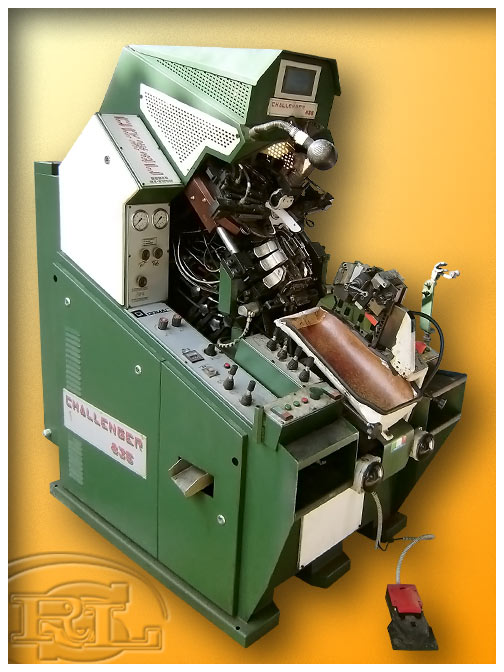
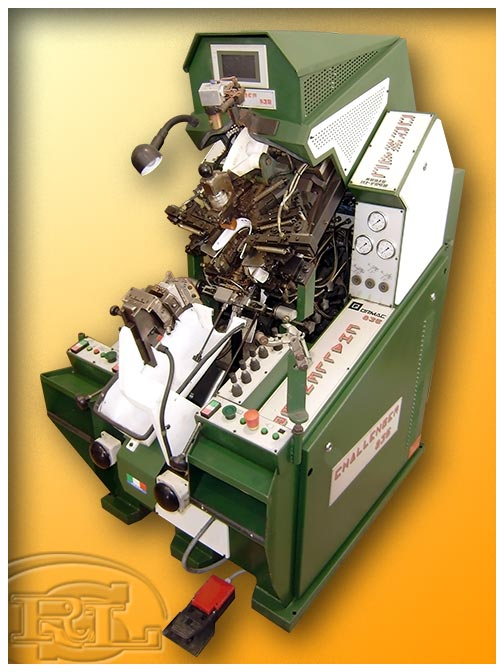
Updated: 'ORMAC CHALLENGER 835' (restored)

diff --git a/maquinas/centrar/maqUs_centrar-y-montar-puntas_ORMAC_CHALLENGER_835.htm b/maquinas/centrar/maqUs_centrar-y-montar-puntas_ORMAC_CHALLENGER_835.htm
@@ -4,7 +4,7 @@
 <head>
 <meta http-equiv="Content-Type" content="text/html; charset=utf-8" />
 <title>RaLoS, Maquinaria USADA: Máquina de Centrar y Montar Puntas ORMAC 'CHALLENGER 835' Serie Hi-Tech de Ocasión </title>
-<meta name="keywords" content="centrar ormac, montar ormac, challenger 835, maquina centrar ormac, montar puntas, centrar puntas, armar puntas, montar punteras, centrar punteras, armar punteras, maquina de centar, maquina de montar, centrar y montar, centrar calzado, montar calzado, centrar zapato, montar zapato, ormac ocasion, ormac usada, ormac segunda mano, maquinaria usada calzado, maquinas usadas calzado, maquinaria usada zapatos, maquinas usadas zapatos, segunda mano, ocasion, usadas, ralos, Elda, Alicante" />
+<meta name="keywords" content="ormac, centrar ormac, montar ormac, ormac challenger, ormac 835, challenger 835, maquina ormac, montar puntas, centrar puntas, armar puntas, montar punteras, centrar punteras, armar punteras, maquina centar, maquina montar, centrar y montar, centrar calzado, montar calzado, centrar zapato, montar zapato, ormac ocasion, ormac usada, ormac segunda mano, maquinaria usada calzado, maquinas usadas calzado, maquinaria usada zapatos, maquinas usadas zapatos, segunda mano, ocasion, usadas, ralos, Elda, Alicante" />
 <meta name="description" content="RaLoS MAQUINARIA, dispone de una máquina de centrar y montar puntas ORMAC 'CHALLENGER 835' (Serie Hi-tech) de OCASIÓN, en perfectas condiciones de funcionamiento y lista para tabajar." />
 <meta name="creation_Date" content="21/07/2011" />
 <meta name="geography" content="Fundadores de la Industria del Calzado, 4 (Bajos) - Elda (Alicante) 03600 SPAIN" />
@@ -105,17 +105,26 @@ counter++;
         
         <li id="n002">
         	<div class="liContainer"><a href="#n003" target="_self" title="Haz click aquí para ir a la siguiente imagen.">
-            <img class="outerImg" src="../../images/_mac_hOuterFrame_mTn.png" alt=""/>
-            <img class="hInnerImg" src="maqUs_centrar-y-montar-puntas_ORMAC_CHALLENGER_835_2h-v.jpg" alt="Máquina de Centrar/Montar Puntas ORMAC 'CHALLENGER 835' (Serie Hi-Tech) 2"/>
-            <img class="spanPosFix" src="../../images/_mac_hOuterFrameFix_mTn.gif" alt=""/>
+            <img class="outerImg" src="../../images/_mac_vOuterFrame_mTn.png" alt=""/>
+            <img class="vInnerImg" src="maqUs_centrar-y-montar-puntas_ORMAC_CHALLENGER_835_2h-v.jpg" alt="Máquina de Centrar/Montar Puntas ORMAC 'CHALLENGER 835' (Serie Hi-Tech) 2"/>
+            <img class="spanPosFix" src="../../images/_mac_vOuterFrameFix_mTn.gif" alt=""/>
+          	<span></span></a>
+          </div>
+        </li>
+
+        <li id="n003">
+        	<div class="liContainer"><a href="#n004" target="_self" title="Haz click aquí para ir a la siguiente imagen.">
+            <img class="outerImg" src="../../images/_mac_vOuterFrame_mTn.png" alt=""/>
+            <img class="vInnerImg" src="maqUs_centrar-y-montar-puntas_ORMAC_CHALLENGER_835_3h-v.jpg" alt="Máquina de Centrar/Montar Puntas ORMAC 'CHALLENGER 835' (Serie Hi-Tech) 2"/>
+            <img class="spanPosFix" src="../../images/_mac_vOuterFrameFix_mTn.gif" alt=""/>
           	<span></span></a>
           </div>
         </li>
         
-        <li id="n003">
+        <li id="n004">
         	<div class="liContainer"><a href="#productDescription" target="_self" title="Haz clic aquí para ir a la información de la máquina.">
             <img class="outerImg" src="../../images/_mac_hOuterFrame_mTn.png" alt=""/>
-            <img class="hInnerImg" src="maqUs_centrar-y-montar-puntas_ORMAC_CHALLENGER_835_3h-v.jpg" alt="Máquina de Centrar/Montar Puntas ORMAC 'CHALLENGER 835' (Serie Hi-Tech) 3"/>
+            <img class="hInnerImg" src="maqUs_centrar-y-montar-puntas_ORMAC_CHALLENGER_835_4h-h.jpg" alt="Máquina de Centrar/Montar Puntas ORMAC 'CHALLENGER 835' (Serie Hi-Tech) 3"/>
             <img class="spanPosFix" src="../../images/_mac_hOuterFrameFix_mTn.gif" alt=""/>
           	<span></span></a>
           </div>
@@ -131,7 +140,7 @@ counter++;
         </tr>
         <tr>
        		<td colspan="4">
-          	<p><span class="boldText">RaLoS</span> dispone de una máquina para centrar y montar las puntas del zapato <span class="boldText">ORMAC &quot;CHALLENGER 835&quot; Serie Hi-Tech</span> de segunda mano, la cual ha estado trabajando normalmente hasta el momento de su adquisición y se encuentra en perfectas condiciones de funcionamiento.</p>
+          	<p><span class="boldText">RaLoS</span> dispone de una máquina para centrar y montar las puntas del zapato <span class="boldText">ORMAC &quot;CHALLENGER 835&quot; Serie Hi-Tech</span> de segunda mano, totalmente restaurada en nuestro taller y lista para trabajar.</p>
 					</td>
         </tr>
         <tr bgcolor="#FFFFFF">
@@ -167,7 +176,7 @@ counter++;
 
         <tr id="rowInfo">
           <td width="25%" class="boldText">Disponible</td>
-          <td width="50%" colspan="2">En condiciones de trabajo.</td>
+          <td width="50%" colspan="2">Restaurada</td>
         <!--<td width="50%" colspan="2">Máquina revisada en nuestro taller.</td>-->
           <td width="25%"><a href="http://www.ralosmaquinaria.com/mainFrameContact.htm?Maquina+de+Centrar+y+Montar+Puntas&'ORMAC+CHALLENGER+835+Serie+Hi-Tech'&(OCASION)#formContainer" title="Ir al Formulario de Consulta" target="_self" class="boldText">Consultar</a></td>
         </tr>
